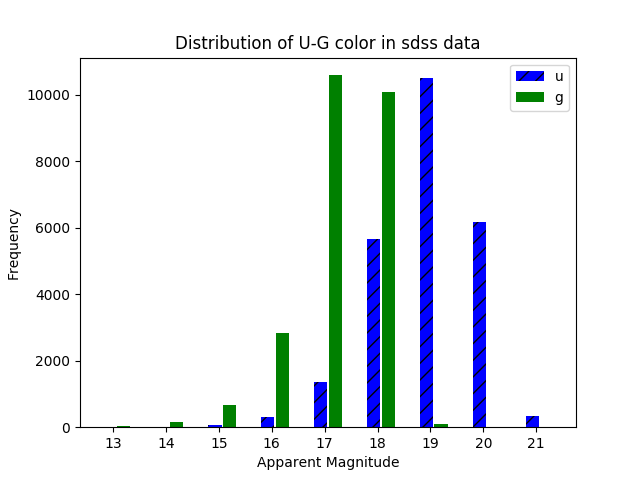
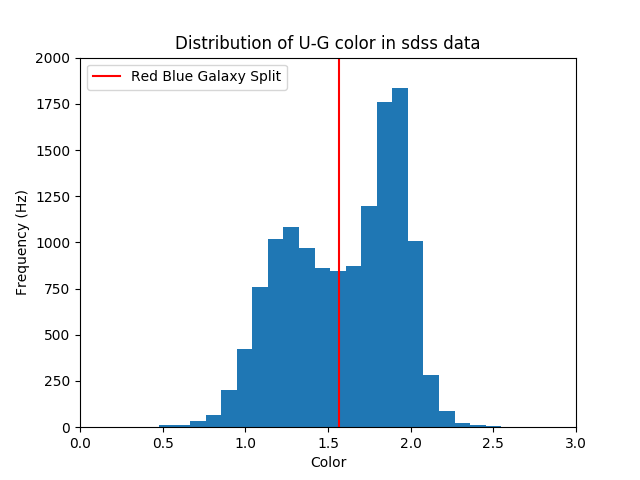
Finished part 6

diff --git a/termproject.py b/termproject.py
@@ -5,7 +5,15 @@ from astropy.io import fits
 import math
 
 zmax = 0.1
-zmin = 1 * 1.e-2 
+zmin = 1 * 1.e-2
+H0 = 73.8 # km /s / Mpc
+c = 299792. #km /s
+Mega = 1000000. # Mpc to pc
+solidAngle = 0.00387
+maxR = (c * zmax) / H0
+limMag = 17.6
+h = 3.0/Mega # Mpc
+colorDifference = 1.565
 
 hdulist = fits.open("sdss.fits")
 
@@ -16,38 +24,13 @@ gData = hdulist[1].data['g']
 zData = hdulist[1].data['z']
 rData = hdulist[1].data['r']
 
-
-uBars = np.zeros(9)
-gBars = np.zeros(9)
+#list to hold u-g color
+uMinusg = []
 
 
 # Step 1, 2: Clean the data
 # Remove entries with null values (-9999)
 # Remove entries with redshifts greater than 0.3 (too far)
-
-for i in range(len(uData) - 1):
-	if uData[i] == -9999.0:
-		uData = np.delete(uData, i)
-		zData = np.delete(zData, i)
-		gData = np.delete(gData, i)
-		rData = np.delete(rData, i)
-		i -= 1
-	else:
-		bottom = math.floor(uData[i])
-		if (bottom < 22 and bottom > 12):
-			uBars[bottom - 13] += 1
-
-for i in range(len(gData) - 1):
-	if gData[i] == -9999.0:
-		gData = np.delete(gData, i)
-		zData = np.delete(zData, i)
-		uData = np.delete(uData, i)
-		rData = np.delete(rData, i)
-		i -= 1
-	else:
-		bottom = math.floor(gData[i])
-		if (bottom < 22 and bottom > 12):
-			gBars[bottom - 13] += 1
 
 for i in range(len(rData) - 1):
 	if rData[i] == -9999.0:
@@ -66,32 +49,44 @@ while i < len(zData):
 		i -= 1
 	i += 1
 
-print(len(uData))
+i = 0
+while i < len(uData):
+	if uData[i] == -9999.0 or gData[i] == -9999.0:
+		uData = np.delete(uData, i)
+		zData = np.delete(zData, i)
+		gData = np.delete(gData, i)
+		rData = np.delete(rData, i)
+		i -= 1
+	else:
+		color = uData[i] - gData[i]
+		if color < 3:
+			uMinusg.append(uData[i] - gData[i])
+		else:
+			uData = np.delete(uData, i)
+			zData = np.delete(zData, i)
+			gData = np.delete(gData, i)
+			rData = np.delete(rData, i)
+			i -= 1
+	i += 1
 
 # Step 3: u-g color distribution plot
 
 def ugDistPlot():
-	plt.bar(np.arange(12.8,21.8, 1), uBars, width=0.25, align="edge", label="u", 
-																color="b", hatch="//")
-	plt.bar(np.arange(13.2,22.2, 1), gBars, width=0.25, label="g", color="g")
-	plt.xticks(np.arange(13,22))
-	plt.xlabel("Apparent Magnitude")
-	plt.ylabel("Frequency")
+	n, bins, patches = plt.hist(uMinusg, bins = 100)
+	plt.axis([0,3,0,2000])
+	plt.plot(bins)
+	plt.axvline(colorDifference, c='r', label="Red Blue Galaxy Split")
 	plt.legend()
-
+	plt.xlabel("Color")
+	plt.ylabel("Frequency (Hz)")
 	plt.title("Distribution of U-G color in sdss data")
-	#color is 18.5
-
 	plt.savefig("histogram.png")
 
-# Step 4: Ram Luminosity Function
+# Step 4: Raw Luminosity Function
 
 # compute distance via redshift (d = cz/H0)
 def redshiftDistance(x):
-	#H0 used is 73.8
-	H0 = 73.8 # km /s / Mpc
-	c = 299792. #km /s
-	y = [((c * z)/H0) * 1000000 for z in x] # 1000000 to get pc
+	y = [((c * z)/H0) * Mega for z in x] # 1000000 to get pc
 	return y
 
 # compute absolute magnitude via distance and apparent magnitude (distance modulus)
@@ -106,29 +101,41 @@ def absMags(dists, mags):
 		j += 1
 	return absMagnitudes
 
+# Returns two lists of absolute magnitudes, one for red galaxies, one for blue galaxies
+# compute absolute magnitude via distance and apparent magnitude (distance modulus)
+# dists is a list of distance
+# mags is a list of apparent magnitude
+def sortAbsMags(dists, mags):
+	red = []
+	blue = []
+	j = 0
+	while j < len(dists):
+		magnitude = mags[j] - ((5 * np.log10(dists[j])) - 5)
+		if uMinusg[j] > colorDifference:
+			red.append(magnitude)
+		else:
+			blue.append(magnitude)
+		j += 1
+	return red, blue
+
 
 # separate absolute magnitudes into bins
 def distributeMagnitudes(mags, length, minV):
-	minV -= 1
 	magBins = np.zeros(length + 1)
 	for mag in mags:
 		magBins[math.floor(mag) + minV] += 1
 	return magBins
 
 
-def calcEffectiveVolume():
-	#from range -84 to -26
-	#lim mag is 17.6
-	limMag = 17.6
-	h = .3
-	Omega = 1
-
+def effectiveVolume(mags):
+	print("m", mags)
 	effectiveVols = []
 	Vmaxs = []
-	for y in range(-84, -25):
-		dmax = pow(10, (limMag - y + 5)/5)
-		dmax = dmax / 1000000
+	for y in range(len(mags)):
+		dmax = pow(10, (limMag - mags[y] + 5)/5)
+		dmax = dmax / Mega
 		x = dmax/h
+		Omega = 1.e6 #scalar to shift the graph
 		effV = Omega * (h**3) * ((.5 * pow(x,2)) + ((x + 1)*math.exp(-1 * x)) - 1)
 		effectiveVols.append(effV)
 
@@ -142,43 +149,78 @@ def calcVratios(Veffs, Vmaxs):
 		result.append(Veffs[i]/Vmaxs[i])
 	return result
 
+# raw and corrected lminosity function plot for all galaxies
+def allGalaxiesPlot(x, lumFunc, correctedLumFunc):
+	plt.plot(x, lumFunc, "r", label="Raw Luminosity Function")
+	plt.plot(x, correctedLumFunc, "b", label="Corrected Luminosity Function")
+	plt.legend(prop={'size': 7})
+	plt.yscale('log')
+	plt.xlabel("Absolute Magnitude")
+	plt.ylabel("#/volume (Mpc^3)")
+	plt.title("Raw Luminosity Function for SDSS data")
+	plt.savefig("luminosity_function.png")
 
-def rawLum():
-	#RA range 145 to 236 degrees
-	#Dec range -2 to 2 degrees
-	#r is 1219.5122 Mpc
-	#volume calculated for survey is 2338967.98142
+# corrected luminosity function plots for all galaxies, red and blue separate
+def redBluePlot(x, correctedLumFunc, x1, redLumFunc, x2, blueLumFunc):
+	plt.plot(x, correctedLumFunc, "g", label="Corrected Luminosity Function for all Galaxies")
+	plt.plot(x1, redLumFunc, "r", label="Corrected Luminosity Function for Red Galaxies")
+	plt.plot(x2, blueLumFunc, "b", label="Corrected Luminosity Function for Blue Galaxies")
+	plt.legend(prop={'size': 7})
+	plt.yscale('log')
+	plt.savefig("red_blue_all_luminosity.png")
+
+# malmquist bias correction
+# returns correct luminosity function
+def malmquistCorrection(absoluteMags, magBins):
+	absMagnitudesList = []
+	absMagsRange = range(math.floor(max(absoluteMags)), math.floor(min(absoluteMags)), -1)
+	for i in absMagsRange:
+		absMagnitudesList.insert(0, i)
+	
+	effectiveVols, Vmaxs = effectiveVolume(absMagnitudesList)
+	Vratios = calcVratios(effectiveVols, Vmaxs)
+	
+	correctedLumFunc = []
+	for x in range(len(magBins)):
+		correctedLumFunc.append(magBins[x]/effectiveVols[x])
+
+	return correctedLumFunc
+
+# raw and corrected luminosity functions
+def luminosityFunction():
 	distances = redshiftDistance(zData)
 	absoluteMags = absMags(distances, rData)
 
 	#need volume to get number density (#/volume in each bin)
-	print(max(absoluteMags), min(absoluteMags))
-	magBins = distributeMagnitudes(absoluteMags, math.floor(max(absoluteMags) - min(absoluteMags)), abs(math.floor(min(absoluteMags))))
+	magBins = distributeMagnitudes(absoluteMags, math.floor(max(absoluteMags) - min(absoluteMags)), abs(math.floor(min(absoluteMags))) - 1)
+	
 	#solid angle * r^3
-	vol = 2338967.98142 #mpc^3
+	vol = pow(maxR,3) * solidAngle #mpc^3
 	lumFunc = [x / vol for x in magBins]
 
-	print(lumFunc)
-
 	#correct malmquist bias
-	#using h=300pc, Omega = 1
-	effectiveVols, Vmaxs = calcEffectiveVolume()
-	Vratios = calcVratios(effectiveVols, Vmaxs)
-	#print(effectiveVols)
-	correctedLumFunc = []
-	for x in range(len(magBins)):
-		correctedLumFunc.append(magBins[x]/Vratios[x])
+	correctedLumFunc = malmquistCorrection(absoluteMags, magBins)
+	
+	x = np.arange(min(absoluteMags), max(absoluteMags), 1)
 
-	print(min(absoluteMags), max(absoluteMags), len(lumFunc))
-	plt.scatter(x = np.arange(min(absoluteMags), max(absoluteMags), 1), y = lumFunc, c = "r")
-	plt.plot(np.arange(min(absoluteMags), max(absoluteMags), 1), lumFunc, "r")
-	#plt.scatter(x = np.arange(-82, -24, 1), y = correctedLumFunc, c = "b")
-	plt.xlabel("Absolute Magnitude")
-	plt.yscale('log')
-	plt.ylabel("#/volume (Mpc^3)")
-	plt.title("Raw Luminosity Function for SDSS data")
-	plt.savefig("rawlum.png")
+	#plot for all galaxies
+	#allGalaxiesPlot(x, lumFunc, correctedLumFunc)
 
-rawLum()
+	#separated by red and blue galaxies
+	redMags, blueMags = sortAbsMags(distances, rData)
+	redBins = distributeMagnitudes(redMags, math.floor(max(redMags) - min(redMags)), abs(math.floor(min(redMags))) - 1)
+	blueBins = distributeMagnitudes(blueMags, math.floor(max(blueMags) - min(blueMags)), abs(math.floor(min(blueMags))) - 1)
+	
+	redLumFunc = malmquistCorrection(redMags, redBins)
+	blueLumFunc = malmquistCorrection(blueMags, blueBins)
+
+	x1 = np.arange(min(redMags), max(redMags), 1)
+	x2 = np.arange(min(blueMags), max(blueMags), 1)
+
+	#plot for red, blue, all
+	redBluePlot(x, correctedLumFunc, x1, redLumFunc, x2, blueLumFunc)
+	
+luminosityFunction()
+#ugDistPlot()
 
 hdulist.close()
